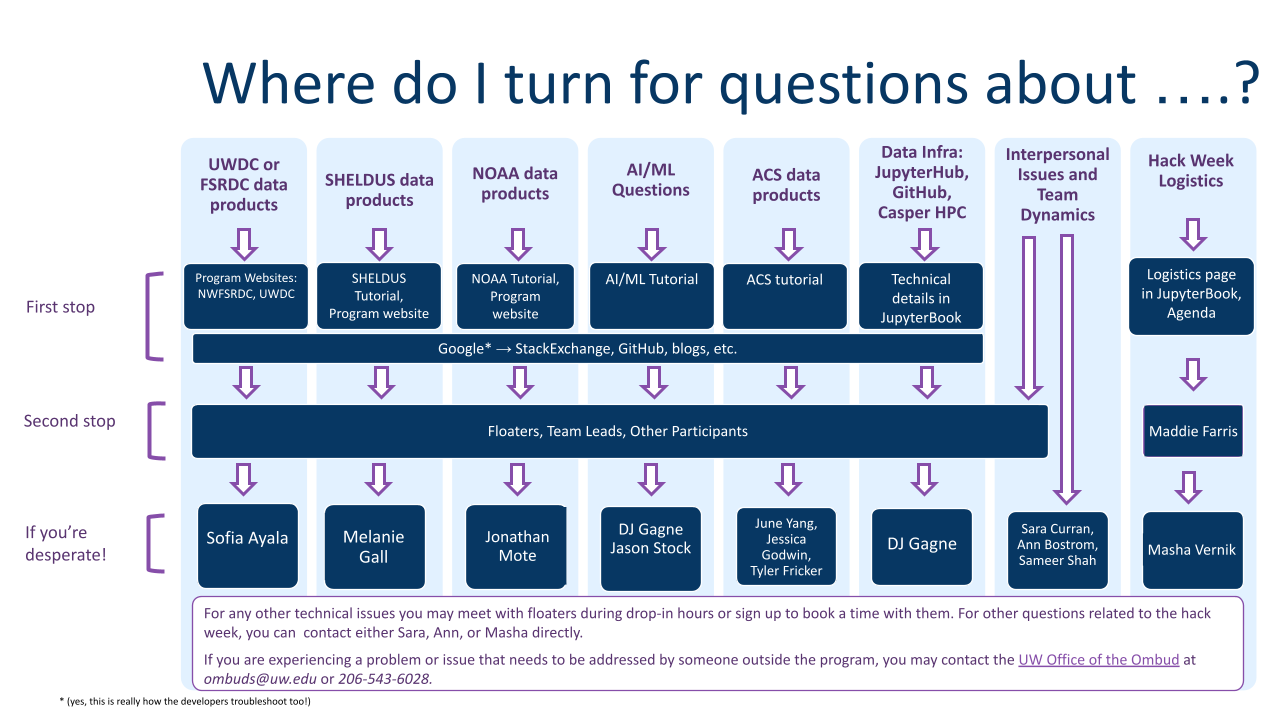
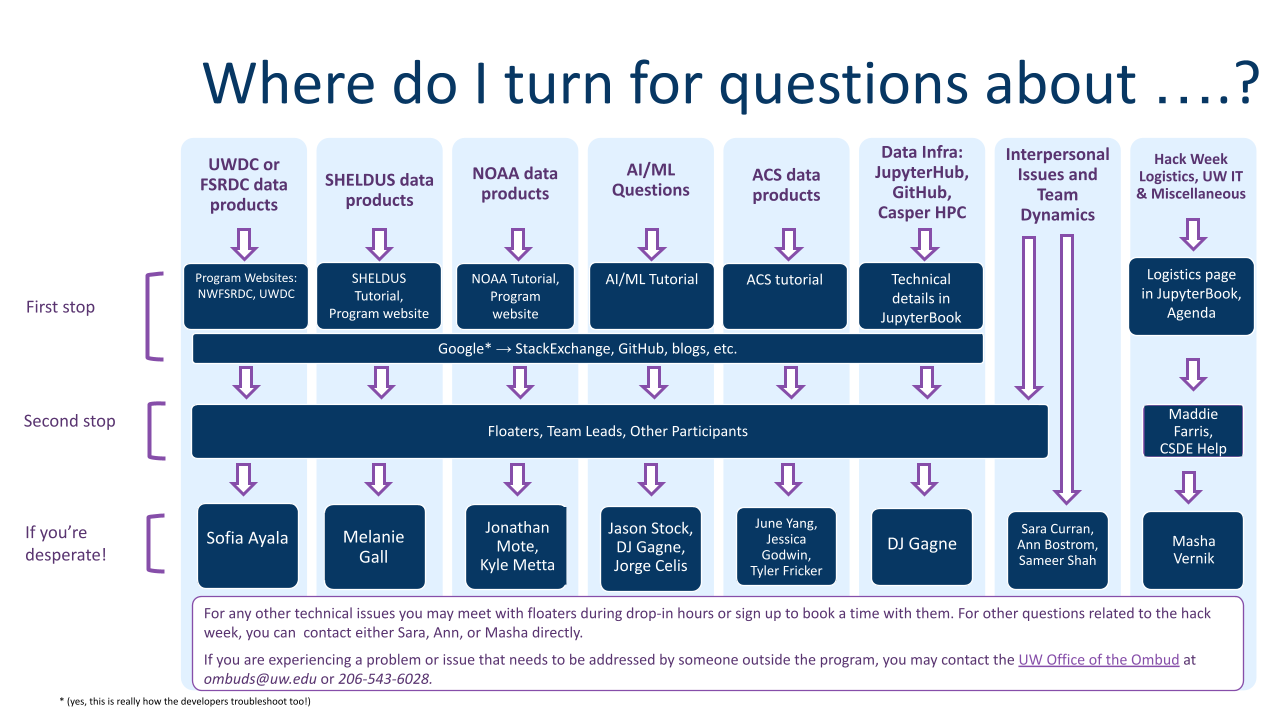
Updated how to get help page
Updated image and added contact information for new additions

diff --git a/book/reference/questions.md b/book/reference/questions.md
@@ -20,7 +20,15 @@ DJ Gagne: dgagne (at) ucar.edu
 
 Jason Stock: stock (at) rams.colostate.edu 
 
+Jorge Celis: jcelis (at) ou.edu
+
+Jonathon Mote: jonathon.mote (at) noaa.gov
+
+Kyle Metta: kyle.metta (at) noaa.gov
+
 Maddie Farris: csde-prgm-coord (at) uw.edu 
+
+CSDE Help: csde_help (at) uw.edu 
 
 June Yang: jyang32 (at) uw.edu 
 
